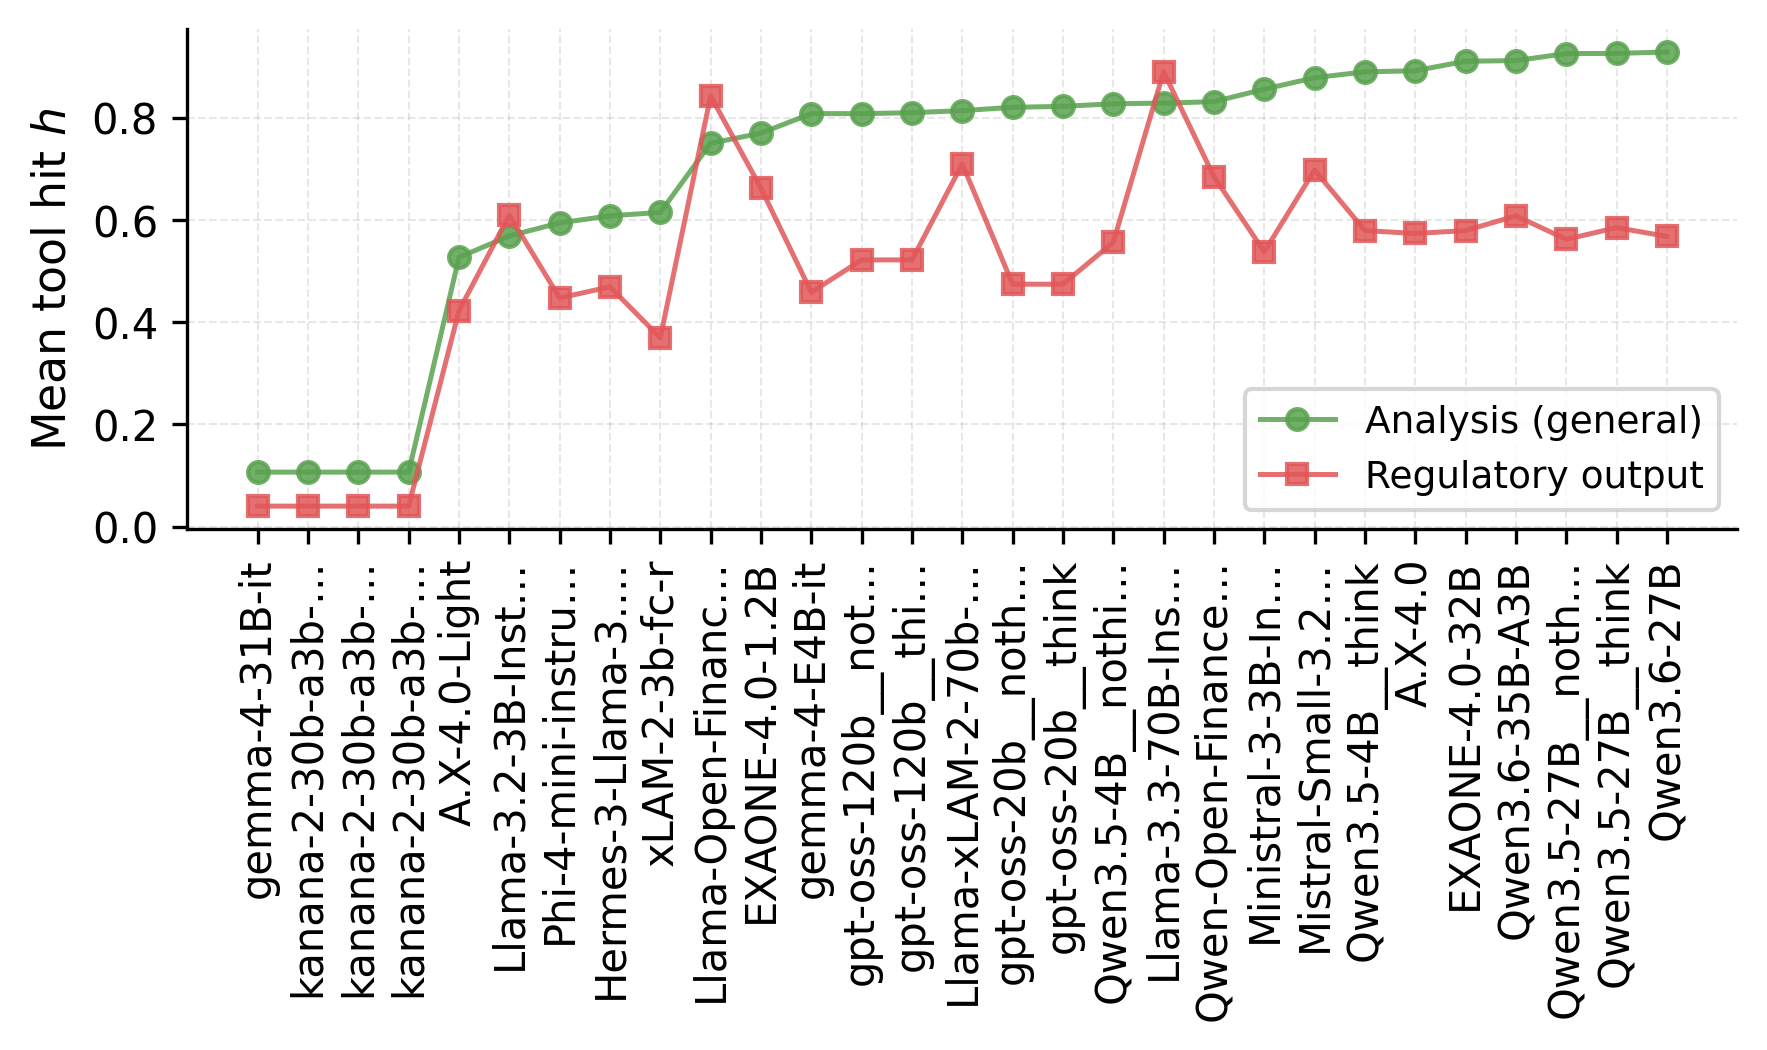
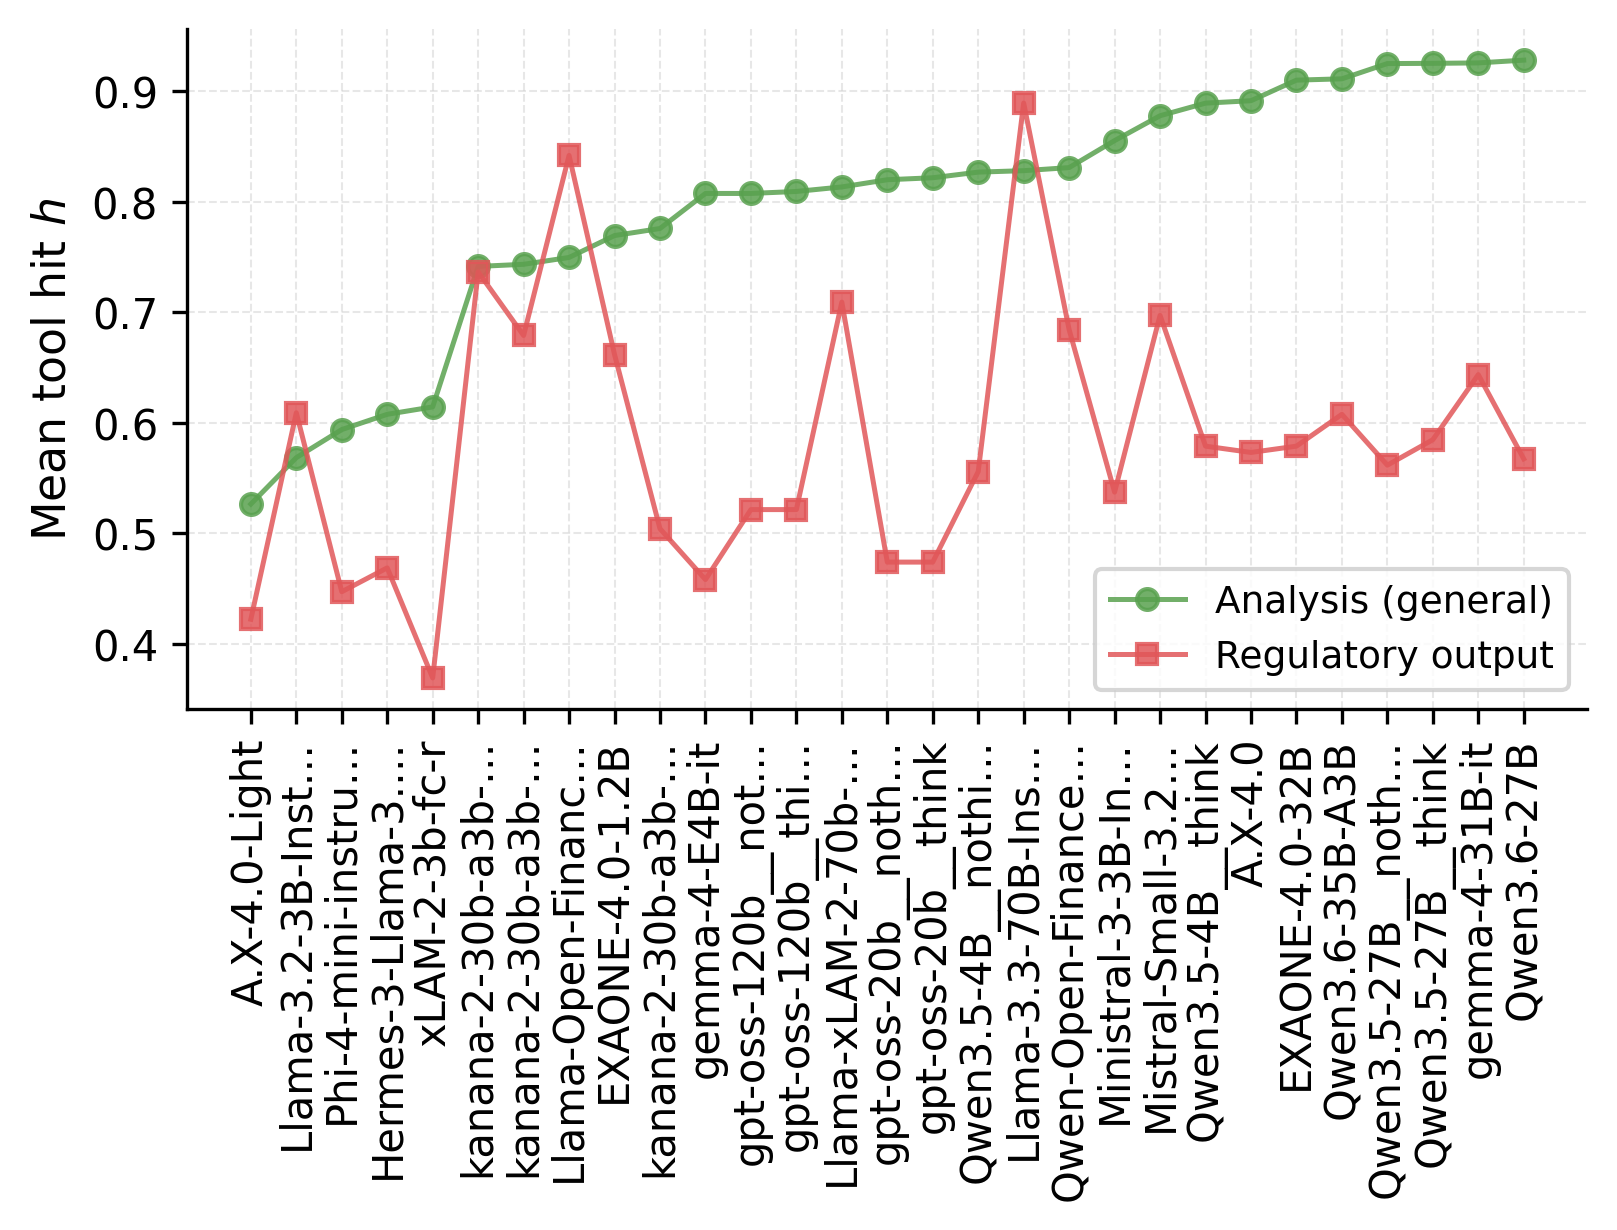
chore(_paper): RQ2 옵션 A 적용 - wrap figure + Plot B 제거 (29-모델 필터 추가)

Changed region(s): [[0.0, 0.0305, 0.9895, 0.9752], [0.5566, 0.2133, 0.6184, 0.4267], [0.8967, 0.2743, 0.9276, 0.3352]]

diff --git a/_experiments/scripts/RQ2_regulatory_vs_analysis_gap.py b/_experiments/scripts/RQ2_regulatory_vs_analysis_gap.py
@@ -21,6 +21,28 @@ OUT_DIR.mkdir(parents=True, exist_ok=True)
 REGULATORY = {'validate_str_fields', 'lookup_fiu_reference_types', 'detect_ctr_candidates'}
 EXCLUDE = {'multi_tool', 'missing_parameters'}  # 합성 카테고리 제외
 
+# 본문 29-모델 세트 (regen_size_vs_performance.py와 동일)
+TARGET_MODELS = {
+    "skt/A.X-4.0-Light", "skt/A.X-4.0",
+    "LGAI-EXAONE/EXAONE-4.0-1.2B", "LGAI-EXAONE/EXAONE-4.0-32B",
+    "kakaocorp/kanana-2-30b-a3b-instruct",
+    "kakaocorp/kanana-2-30b-a3b-thinking-2601__nothink",
+    "kakaocorp/kanana-2-30b-a3b-thinking-2601__think",
+    "DragonLLM/Llama-Open-Finance-8B", "DragonLLM/Qwen-Open-Finance-R-8B",
+    "openai/gpt-oss-20b__nothink", "openai/gpt-oss-20b__think",
+    "openai/gpt-oss-120b__nothink", "openai/gpt-oss-120b__think",
+    "meta-llama/Llama-3.2-3B-Instruct", "meta-llama/Llama-3.3-70B-Instruct",
+    "mistralai/Ministral-3-3B-Instruct-2512",
+    "mistralai/Mistral-Small-3.2-24B-Instruct-2506",
+    "microsoft/Phi-4-mini-instruct",
+    "Qwen/Qwen3.5-4B__nothink", "Qwen/Qwen3.5-4B__think",
+    "Qwen/Qwen3.5-27B__nothink", "Qwen/Qwen3.5-27B__think",
+    "Qwen/Qwen3.6-27B", "Qwen/Qwen3.6-35B-A3B",
+    "Salesforce/xLAM-2-3b-fc-r", "Salesforce/Llama-xLAM-2-70b-fc-r",
+    "google/gemma-4-E4B-it", "google/gemma-4-31B-it",
+    "NousResearch/Hermes-3-Llama-3.1-8B",
+}
+
 def main():
     files = sorted(EVAL_DIR.glob('eval_*.json'))
     rows = []
@@ -28,6 +50,8 @@ def main():
     for f in files:
         d = json.load(f.open())
         model = d['model']
+        if model not in TARGET_MODELS:
+            continue
         reg_h = []; ana_h = []; per_cat = {}
         for cat_name, cat in d.get('by_category', {}).items():
             if cat_name in EXCLUDE:
@@ -77,7 +101,7 @@ def main():
         sorted_rows = sorted(rows, key=lambda r: r['analysis_h_mean'])
         names = [short_name(r['model'], 18) for r in sorted_rows]
         x = range(len(sorted_rows))
-        fig, ax = plt.subplots(figsize=(6, 3.6))
+        fig, ax = plt.subplots(figsize=(5.5, 4.2))
         ax.plot(x, [r['analysis_h_mean'] for r in sorted_rows], 'o-',
                 label='Analysis (general)', color=COL_GOOD,
                 markersize=5, linewidth=1.2, alpha=0.85)
